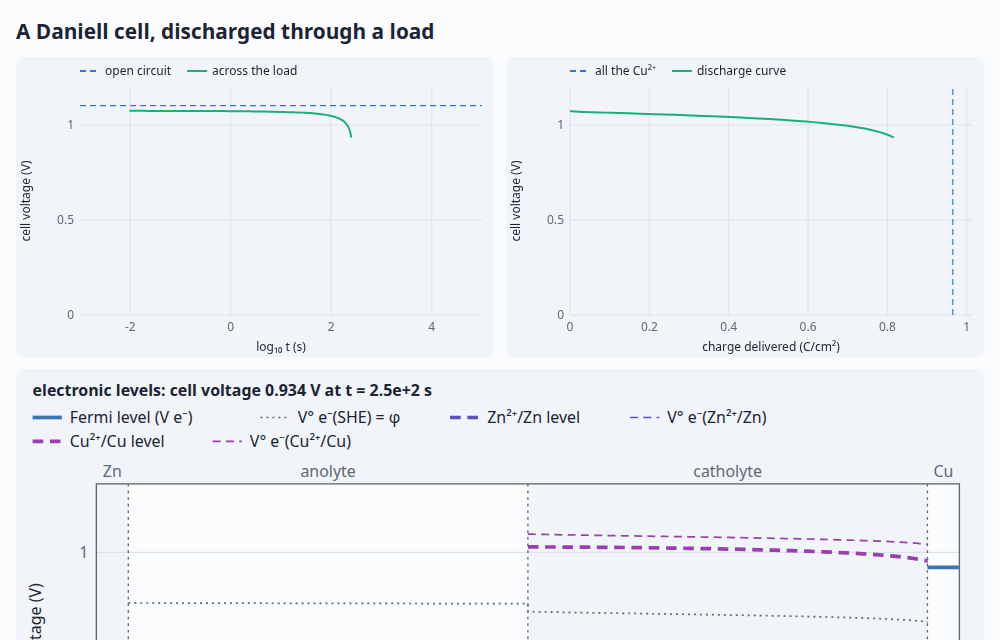
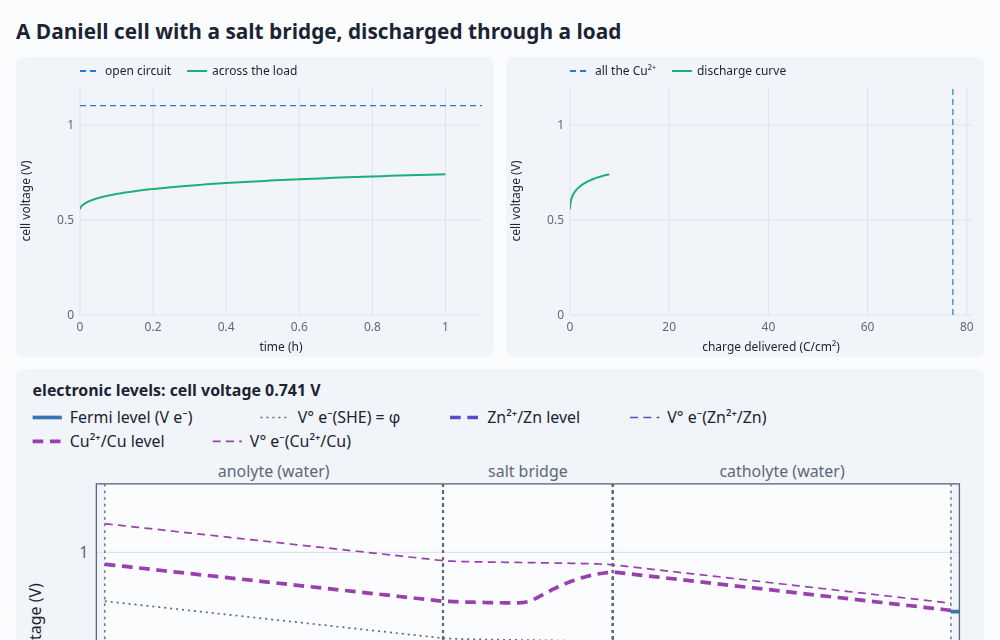
Daniell demo: a salt bridge simulated ion by ion, leaking, in linear time
A 3 M KCl bridge between stirred solutions (eddy mixing), every ion everywhere so each crosses
each junction. The zinc-side junction drawn ion by ion: tens of mV in each species' voltage,
about a millivolt in φ (Henderson's 0.99 mV). Playback in cell-hours per second; the cell runs
until its Cu²⁺ is gone.

diff --git a/demos/daniell.html b/demos/daniell.html
@@ -8,30 +8,30 @@
 </head>
 <body>
 <main>
-  <h1>A Daniell cell, discharged through a load</h1>
-  <p>Zn | 0.1 M ZnSO₄ | separator | 0.1 M CuSO₄ | Cu, each solution 0.5 mm deep and still, the separator
-    passing only sulfate. At open circuit each metal's Fermi level sits at its couple's redox level (Zn²⁺/Zn
-    and Cu²⁺/Cu), and the cell voltage is the 1.10 V between them. Connect a load and current flows: each
-    metal departs from its couple's level by an overpotential, the redox levels tilt across the electrolyte
-    (ohmic drop, and the compositions changing near each electrode), and the voltage left for the load
-    shrinks. Zinc dissolves, copper plates, and sulfate crosses the separator to keep each side neutral. The
-    run goes on, in log time, until the cell is flat: 0.5 mm of 0.1 M Cu²⁺ holds 0.96 C/cm², or 1.06 J/cm² at
-    1.10 V. A light load drains it slowly, near the open-circuit voltage throughout, and gets 97% of that
-    energy (the rest because the couples' levels close in as Cu²⁺ runs low and Zn²⁺ builds up). The heaviest
-    load here asks for more current than diffusion can supply: the Cu²⁺ at the copper runs out early and the
-    voltage sags, so although nearly all the charge still comes out, less than a fifth of the energy reaches
-    the load. The rest is dissipated in the cell.</p>
-  <p>The first level diagram is electronic: the metals' Fermi levels, each couple's redox level, the electronic
-    level at which the local mixture is in equilibrium, and their standard levels, which ride on the SHE's
-    standard level (φ itself, with table μ°): zinc's 0.76 V below it, copper's 0.34 V above. The second is
-    the same story ion by ion: each species' voltage V<sub>i</sub> (thick) and standard level V°<sub>i</sub>
-    (thin), with sulfate drawn 4.1 V lower (⌇) to share the plot. Zn²⁺'s voltage meets zinc's electrons,
-    and Cu²⁺'s meets copper's: that's what equilibrium at each electrode means.</p>
+  <h1>A Daniell cell with a salt bridge, discharged through a load</h1>
+  <p>Zn | 0.1 M ZnSO₄ | 3 M KCl salt bridge | 0.1 M CuSO₄ | Cu, built in a tube: the two solutions are each
+    4 cm long and stirred, the bridge 2 cm of unstirred KCl, and everything per unit area of the tube's bore.
+    (A real cell has beakers far bigger than its bridge's bore, so its solutions change more slowly; 1D can't
+    hold that geometry.) At open circuit each metal's Fermi level sits at its couple's redox level, 1.10 V
+    apart. Connect the load and current flows: each metal departs from its couple's level by an overpotential,
+    the solutions and bridge drop some of the voltage, and the rest reaches the load. Zinc dissolves, copper
+    plates, and the cell runs until the Cu²⁺ is gone.</p>
+  <p>The bridge is where a textbook says "assume the liquid junction potentials are negligible". Here it's
+    simulated, ions and all. Every ion crosses each junction, so the bridge leaks: KCl diffuses out into the
+    two solutions, and Zn²⁺, Cu²⁺ and SO₄²⁻ diffuse in, on the way to the far side. The zoomed diagram follows
+    the zinc-side junction ion by ion: each species' voltage V<sub>i</sub> changes by tens of mV across it,
+    and those differences drive the leak, yet at open circuit φ steps by only about a millivolt (under load,
+    φ also falls with the current's ohmic drop). That small step is the liquid junction potential: it
+    starts at +0.97 mV, against +0.99 mV from Henderson's formula for these solutions, and the copper side's
+    is −0.97 mV, nearly cancelling. That's why a KCl bridge works: K⁺ and Cl⁻ move at nearly the same speed. Over hours
+    the leaked KCl also makes the solutions more conductive, so under a heavy load the voltage rises at first.
+    Each end of the bridge starts as a thin zone where the solutions are pre-mixed, as at a frit (a perfectly
+    sharp start is harder for the solver, and no real junction is sharp).</p>
   <div class="controls">
-    <label>load R <input id="R" type="range" min="-3" max="1" step="0.25" value="-1.5"><output id="Rout"></output></label>
+    <label>load R <input id="R" type="range" min="-3" max="0" step="0.25" value="-1.5"><output id="Rout"></output></label>
     <label>playback <select id="pace">
-      <option value="3">a decade of time every 3 s</option>
-      <option value="1" selected>a decade every second</option>
+      <option value="0.1667">10 min of cell time a second</option>
+      <option value="1" selected>an hour a second</option>
       <option value="0">as fast as it solves</option>
     </select></label>
     <button id="run">restart</button>
@@ -42,46 +42,64 @@
     <canvas id="vq"></canvas>
     <div class="levels wide" id="levels"></div>
     <div class="levels wide" id="conc"></div>
-    <div class="levels wide" id="ions"></div>
+    <div class="levels wide" id="junction"></div>
     <div class="readout wide" id="ledger"></div>
   </div>
 </main>
 <script type="module">
-import { Device, FARADAY } from '../src/index.js';
-import { build, layer, ohmic, half, level, aqueous, metal } from '../src/kit.js';
+import { Device, FARADAY, GAS_CONSTANT } from '../src/index.js';
+import { build, layer, ohmic, half, level, aqueous, metal, traces, IONS } from '../src/kit.js';
+import { levelChart } from '../src/plot.js';
 import { chart, colors } from './plot.js';
 import { levels, profiles, showCode, fromQuery } from './common.js';
 
 const zinc = half('Zn2+ + 2 e- = Zn(s)', { 'Zn(s)': 0 });
 const copper = half('Cu2+ + 2 e- = Cu(s)', { 'Cu(s)': 0 });
 const electrode = (couple) => ({ reactions: [{ ...couple, k0: 1e-3, alpha: 0.5 }] });
-const depth = 500e-6, c0 = 100; // each solution: m, mol/m³
+
+// Every ion is everywhere (a trace of 1 µM where it isn't added), so each can cross each junction.
+const ions = ['Zn2+', 'Cu2+', 'K+', 'SO42-', 'Cl-'], trace = 1e-3; // mol/m³
+const anolyte = { 'Zn2+': 100, 'SO42-': 100, 'Cu2+': trace, 'K+': trace, 'Cl-': 3 * trace };
+const catholyte = { 'Cu2+': 100, 'SO42-': 100, 'Zn2+': trace, 'K+': trace, 'Cl-': 3 * trace };
+const bridge = { 'K+': 3000, 'Cl-': 3000 + 2 * trace, 'Zn2+': trace, 'Cu2+': trace, 'SO42-': trace };
+const arm = 0.04, span = 0.02; // m: each solution, and the bridge
+
+// Each end of the bridge starts as a 0.1 mm zone where the two solutions are pre-mixed, as at a
+// frit: layers mixing one into the other in log-spaced fractions (neutral, since it's linear).
+const fractions = [1e-6, 1e-5, 1e-4, 1e-3, 1e-2, 0.1, 0.5, 0.9, 0.99, 0.999, 0.9999, 0.99999, 0.999999];
+const mix = (a, b, s) => Object.fromEntries(ions.map((n) => [n, (1 - s) * a[n] + s * b[n]]));
+const frit = (a, b) => fractions.map((s) => layer('water', 1e-4 / fractions.length, { name: 'frit', c0: mix(a, b, s) }));
+// A stirred solution: eddy mixing evens it out within seconds (it carries no current), on a grid
+// as coarse as a uniform solution allows.
+const stirred = (name, c0) => layer('water', arm, { name, c0, mixing: 1e-4, grid: { hmin: arm / 100, hmax: arm / 20 } });
+
 const cell = (right) =>
   build({
-    library: [
-      aqueous(['Zn2+', 'SO42-'], { epsr: 0, material: 'anolyte' }), // strictly neutral solutions
-      aqueous(['Cu2+', 'SO42-'], { epsr: 0, material: 'catholyte' }),
-      metal('Zn'),
-      metal('Cu'),
-    ],
+    library: [aqueous(ions, { epsr: 0 }), metal('Zn'), metal('Cu')], // strictly neutral solutions
     stack: [
       ohmic(0, ['e-']),
-      layer('Zn', 40e-6), // a metal is one cell whatever its length: this just shows on the diagram
+      layer('Zn', 1e-3), // a metal is one cell whatever its length: this just shows on the diagram
       electrode(zinc),
-      layer('anolyte', depth, { c0: { 'Zn2+': c0, 'SO42-': c0 } }),
-      {}, // the separator: only sulfate is in both solutions, so only sulfate crosses
-      layer('catholyte', depth, { c0: { 'Cu2+': c0, 'SO42-': c0 } }),
+      stirred('anolyte', anolyte),
+      frit(anolyte, bridge),
+      layer('water', span, { name: 'salt bridge', c0: bridge }),
+      frit(bridge, catholyte),
+      stirred('catholyte', catholyte),
       electrode(copper),
-      layer('Cu', 40e-6),
+      layer('Cu', 1e-3),
       ohmic(right, ['e-']),
     ],
-    grid: { hmin: 10e-9, hmax: 10e-6 },
+    grid: { hmin: 1e-6, hmax: span / 100 },
   });
-const capacity = 2 * FARADAY * c0 * depth; // C/m²: all the Cu²⁺ plated
+const capacity = 2 * FARADAY * catholyte['Cu2+'] * arm; // C/m²: all the Cu²⁺ plated
+// The open-circuit voltage at the start: the two couples' levels, equal concentrations.
+const emf0 = (IONS['Cu2+'].mu0 - IONS['Zn2+'].mu0) / (2 * FARADAY);
 
-// The faces' edge nodes, where the overpotentials are read.
-const probe = new Device(cell({ I: 0 }));
-const gZn = probe.grid.regionStart[1], gCu = probe.grid.regionEnd[2];
+// The faces' edge nodes, where the overpotentials are read, and the zinc-side junction.
+const probe = new Device(cell(emf0));
+const region = (name) => probe.model.regions.findIndex((r) => r.name === name);
+const gZn = probe.grid.regionStart[region('anolyte')], gCu = probe.grid.regionEnd[region('catholyte')];
+const xJunction = probe.grid.x[probe.grid.regionEnd[region('anolyte')]];
 const ledger = (sol) => {
   const Vzn = sol.V['e-'][0], Vcu = sol.V['e-'].at(-1);
   const Lzn = level(sol, zinc)[gZn], Lcu = level(sol, copper)[gCu];
@@ -90,71 +108,83 @@ const ledger = (sol) => {
   return { V: Vcu - Vzn, etaZn: Lzn - Vzn, etaCu: Vcu - Lcu, couples: Lcu - Lzn };
 };
 
-const Rslider = document.getElementById('R');
+const Rslider = document.getElementById('R'), pace = document.getElementById('pace');
 fromQuery(Rslider);
+fromQuery(pace);
 const R = () => 10 ** +Rslider.value; // Ω·m²
-const show = () => (document.getElementById('Rout').textContent = `${(R() * 1e4).toPrecision(2)} Ω·cm²`);
+const show = () => (document.getElementById('Rout').textContent = `${+(R() * 1e4).toPrecision(2)} Ω·cm²`);
 Rslider.addEventListener('input', show);
 show();
 
-let dev, emf, trace, running = false;
+let dev, run, running = false;
 function start() {
-  // At open circuit (the right terminal floating at zero current), then the load.
-  dev = new Device(cell({ I: 0 }));
-  emf = ledger(dev.solve()).V;
-  dev.set({ contacts: { right: { I: undefined, V: 0, R: R() } } }); // the load: I = (0 − V)/R
-  // ?t=… goes straight to that time (for a screenshot).
-  trace = { t: [], V: [], q: [0], energy: 0, stop: +new URLSearchParams(location.search).get('t') || Infinity };
+  // The copper held at the open-circuit voltage for a microsecond while the junctions form, then
+  // the load: I = (0 − V)/R.
+  dev = new Device(cell(emf0));
+  dev.advance(1e-6);
+  dev.set({ contacts: { right: { V: 0, R: R() } } });
+  run = { t: [], V: [], q: [0], energy: 0, I: 0, stop: +new URLSearchParams(location.search).get('t') || Infinity };
+  // ?t=… runs ahead to that time (for sharing a state, or a screenshot).
+  if (run.stop < Infinity) record(dev.advance(run.stop, { budgetMs: 60000 }));
   lastFrame = undefined;
   if (!running) requestAnimationFrame(frame);
   running = true;
 }
 
-// Playback in log time, from 1 ms: a decade of time every few seconds, or as far as 12 ms of
-// computing reaches each frame. The run ends when the cell is flat.
-const pace = document.getElementById('pace');
+// Charge and energy through the load, by the trapezoid rule.
+function record(sol) {
+  sol.trace.t.forEach((t, k) => {
+    const I = sol.trace.current[k], V = sol.trace.voltage[k]; // through the load, and across it
+    if (run.t.length) {
+      const dt = t - run.t.at(-1);
+      run.q.push(run.q.at(-1) + (dt * (run.I + I)) / 2);
+      run.energy += (dt * (run.I * run.V.at(-1) + I * V)) / 2;
+    }
+    run.I = I;
+    run.t.push(t);
+    run.V.push(V);
+  });
+  return sol;
+}
+
+// Playback in cell-hours per wall-clock second, or as far as 12 ms of computing reaches.
 let lastFrame;
 function frame(now = performance.now()) {
   const wall = Math.min(0.1, (now - (lastFrame ?? now)) / 1000);
   lastFrame = now;
-  const perDecade = +pace.value, t = Math.max(1e-3, dev.solver.time);
-  const target = trace.stop < Infinity ? trace.stop : perDecade > 0 ? t * 10 ** (wall / perDecade) : t * 100;
-  const sol = dev.advance(target, { budgetMs: 12 });
-  sol.trace.t.forEach((t, k) => {
-    // Charge and energy through the load, by the trapezoid rule.
-    const I = sol.trace.current[k], V = sol.trace.voltage[k]; // through the load, and across it
-    if (trace.t.length) {
-      const dt = t - trace.t.at(-1);
-      trace.q.push(trace.q.at(-1) + (dt * (trace.I + I)) / 2);
-      trace.energy += (dt * (trace.I * trace.V.at(-1) + I * V)) / 2;
-    }
-    trace.I = I;
-    trace.t.push(t);
-    trace.V.push(sol.trace.voltage[k]);
-  });
-  const L = ledger(sol), flat = trace.t.length > 1 && L.V < 0.01 * emf;
-  const q = trace.q.at(-1) / 1e4; // C/cm²
+  const hoursPerSecond = +pace.value, t = dev.solver.time;
+  const target = run.stop < Infinity ? t : hoursPerSecond > 0 ? t + wall * hoursPerSecond * 3600 : t + 86400;
+  const sol = record(dev.advance(target, { budgetMs: 12 }));
+  const flat = run.q.at(-1) > 0.999 * capacity || (run.t.length > 1 && run.V.at(-1) < 1e-3);
+  draw(sol, flat);
+  if (run.stop === Infinity && sol.converged && !flat) requestAnimationFrame(frame);
+  else running = false;
+}
+
+function draw(sol, flat) {
+  const L = ledger(sol), hours = sol.time / 3600;
   document.getElementById('status').textContent =
-    `t = ${sol.time < 100 ? sol.time.toPrecision(2) : sol.time.toFixed(0)} s · I = ${(sol.current / 10).toFixed(2)} mA/cm² · delivered ${q.toFixed(3)} C/cm², ${(trace.energy / 1e4).toFixed(3)} J/cm²` +
-    (flat ? ` · flat: the load got ${((100 * trace.energy) / (capacity * emf)).toFixed(0)}% of the energy` : '');
+    `${hours < 10 ? hours.toFixed(2) : hours.toFixed(1)} h · I = ${(sol.current / 10).toFixed(3)} mA/cm² · ` +
+    `delivered ${(run.q.at(-1) / 1e4).toFixed(2)} C/cm², ${(run.energy / 1e4).toFixed(2)} J/cm²` + (flat ? ' · flat' : '');
+  const tMax = Math.max(1, 1.1 * hours);
   chart(document.getElementById('vt'), {
-    xlabel: 'log₁₀ t (s)', ylabel: 'cell voltage (V)', xlim: [-3, 5], ylim: [0, 1.2],
+    xlabel: 'time (h)', ylabel: 'cell voltage (V)', xlim: [0, tMax], ylim: [0, 1.2],
     series: [
-      { x: [-3, 5], y: [emf, emf], color: colors[0], dash: [6, 4], width: 1.2, label: 'open circuit' },
-      { x: trace.t.map(Math.log10), y: trace.V, color: colors[2], label: 'across the load' },
+      { x: [0, tMax], y: [emf0, emf0], color: colors[0], dash: [6, 4], width: 1.2, label: 'open circuit' },
+      { x: run.t.map((t) => t / 3600), y: run.V, color: colors[2], label: 'across the load' },
     ],
   });
   chart(document.getElementById('vq'), {
-    xlabel: 'charge delivered (C/cm²)', ylabel: 'cell voltage (V)', xlim: [0, 1.05 * capacity / 1e4], ylim: [0, 1.2],
+    xlabel: 'charge delivered (C/cm²)', ylabel: 'cell voltage (V)', xlim: [0, (1.05 * capacity) / 1e4], ylim: [0, 1.2],
     series: [
       { x: [capacity / 1e4, capacity / 1e4], y: [0, 1.2], color: colors[0], dash: [6, 4], width: 1.2, label: 'all the Cu²⁺' },
-      { x: trace.q.map((v) => v / 1e4), y: trace.V, color: colors[2], label: 'discharge curve' },
+      { x: run.q.map((v) => v / 1e4), y: run.V, color: colors[2], label: 'discharge curve' },
     ],
   });
   // Electronic levels: the Fermi levels, each couple's redox level and standard level, and the
   // SHE's standard level, which with table μ° (μ°_H⁺ = 0, μ_H₂ = 0) is φ itself.
   levels(document.getElementById('levels'), sol, {
-    title: `electronic levels: cell voltage ${L.V.toFixed(3)} V at t = ${sol.time.toPrecision(2)} s`,
+    title: `electronic levels: cell voltage ${L.V.toFixed(3)} V`,
     species: ['e-'],
     phi: true,
     labels: { 'V:e-': 'Fermi level (V e⁻)', phi: 'V° e⁻(SHE) = φ' },
@@ -167,32 +197,38 @@ function frame(now = performance.now()) {
     range: [-0.2, 1.3],
     ylabel: 'electron voltage (V)',
   });
-  // Sulfate (thin) follows each side's cation exactly: the solutions are strictly neutral.
   profiles(document.getElementById('conc'), sol, {
-    species: ['Zn2+', 'Cu2+', { name: 'SO42-', kind: 'standard', label: 'c SO₄²⁻ (= the cation’s)' }],
-    title: 'concentrations', ylabel: 'concentration (mM)', range: [0, 230],
+    species: ['K+', 'Cl-', 'Zn2+', 'Cu2+', 'SO42-'],
+    title: 'concentrations: the bridge leaking', ylabel: 'concentration (M)', scale: 1e-3, log: true, range: [-6, 1],
   });
-  levels(document.getElementById('ions'), sol, {
-    title: 'species voltages and standard levels, ion by ion',
-    species: ['e-', 'Zn2+', 'Cu2+', 'SO42-'],
-    shifts: { 'SO42-': -4.1 },
-    range: [-0.2, 1.3],
-    ylabel: 'voltage (V)',
+  // The zinc-side junction, ion by ion: each species' voltage relative to its value in the
+  // stirred anolyte (mV), and φ likewise. The window widens as the junction spreads (√(Dt)).
+  const w = Math.min(span, Math.max(5e-4, 4 * Math.sqrt(2e-9 * sol.time)));
+  const xlim = [xJunction - w / 4, xJunction + w];
+  const tr = traces(sol, { species: ['K+', 'Cl-', 'Zn2+', 'SO42-'], standard: false, phi: true });
+  const g0 = sol.x.findIndex((x) => x >= xlim[0]);
+  for (const line of tr.series) {
+    const ref = line.y[g0];
+    line.y = line.y.map((v) => 1000 * (v - ref));
+    line.label = line.id === 'phi' ? 'φ' : `${line.label} (from its value in the anolyte)`;
+  }
+  const iJ = sol.x.findIndex((x) => x >= xJunction + w * 0.9);
+  document.getElementById('junction').innerHTML = levelChart(tr, {
+    width: 720, height: 360, xlim, ylabel: 'change from the anolyte (mV)',
+    title: `the zinc-side junction: φ changes by ${(1000 * (sol.phi[iJ] - sol.phi[g0])).toFixed(2)} mV across this window, ohmic drop included`,
   });
   // Where the voltage goes: exact, as differences of levels at the two faces.
   const row = (name, v, strong) => `<tr${strong ? ' style="font-weight:600"' : ''}><td>${name}</td><td style="text-align:right;white-space:nowrap;padding-left:12px">${v >= 0 ? '+' : '−'}${Math.abs(v).toFixed(3)} V</td></tr>`;
   document.getElementById('ledger').innerHTML =
     `<table style="width:100%;max-width:460px">` +
-    row('open-circuit voltage (the two couples, at the start)', emf, true) +
-    row('electrolyte: ohmic drop and concentration changes', L.couples - emf) +
+    row('open-circuit voltage (the two couples, at the start)', emf0, true) +
+    row('electrolyte: solutions, bridge and junctions, and concentration changes', L.couples - emf0) +
     row('zinc overpotential', L.etaZn) +
     row('copper overpotential', L.etaCu) +
     row('cell voltage', L.V, true) +
     `</table><p class="note">The overpotentials are each metal's distance from its couple's level at its own face;
     the electrolyte's share is what's left between the two couples' levels there. How that share splits into
     ohmic drop, concentration and junction terms is a convention; the diagrams show where it happens.</p>`;
-  if (sol.time < trace.stop && sol.converged && !flat) requestAnimationFrame(frame);
-  else running = false;
 }
 document.getElementById('run').addEventListener('click', start);
 Rslider.addEventListener('change', start);

diff --git a/demos/index.html b/demos/index.html
@@ -25,7 +25,7 @@
   <h2>Electrochemistry</h2>
   <div class="cards">
     <a class="card" href="redox.html"><img src="screenshots/redox.png" alt="cyclic voltammetry"><div><b>Cyclic voltammetry</b><span>Fe³⁺/Fe²⁺ at platinum: the Fermi level against the couple's redox level, Butler–Volmer kinetics and diffusion.</span></div></a>
-    <a class="card" href="daniell.html"><img src="screenshots/daniell.png" alt="Daniell cell"><div><b>Daniell cell</b><span>Zn | Zn²⁺ ‖ Cu²⁺ | Cu run flat through a load: where its voltage, and its energy, go.</span></div></a>
+    <a class="card" href="daniell.html"><img src="screenshots/daniell.png" alt="Daniell cell"><div><b>Daniell cell</b><span>Zn | Zn²⁺ | KCl bridge | Cu²⁺ | Cu through a load: the bridge simulated ion by ion, leaking, with its junction potentials.</span></div></a>
     <a class="card" href="cell.html"><img src="screenshots/cell.png" alt="concentration polarisation"><div><b>Concentration polarisation</b><span>Ag | AgNO₃ | Ag under a square wave: the salt piling up and reversing, live; the impedance against theory.</span></div></a>
   </div>
 

diff --git a/README.md b/README.md
@@ -127,7 +127,7 @@ and open `/demos/`.
 | [![pn junction](demos/screenshots/pn.png)](demos/pn.html) | [![solar cell](demos/screenshots/solar.png)](demos/solar.html) | [![MOS capacitor](demos/screenshots/mos.png)](demos/mos.html) |
 | **pn junction**: quasi-Fermi levels under bias; I–V against Shockley | **Solar cell**: J<sub>sc</sub> and V<sub>oc</sub> against collection theory | **MOS capacitor**: band bending; C–V against ideal theory |
 | [![cyclic voltammetry](demos/screenshots/redox.png)](demos/redox.html) | [![Daniell cell](demos/screenshots/daniell.png)](demos/daniell.html) | [![concentration polarisation](demos/screenshots/cell.png)](demos/cell.html) |
-| **Cyclic voltammetry**: a Fermi level against a redox level | **Daniell cell**: run flat, and where its voltage and energy go | **Ag \| AgNO₃ \| Ag**: square-wave polarisation and impedance |
+| **Cyclic voltammetry**: a Fermi level against a redox level | **Daniell cell**: a real salt bridge, leaking, ion by ion | **Ag \| AgNO₃ \| Ag**: square-wave polarisation and impedance |
 | [![ion-exchange membrane](demos/screenshots/membrane.png)](demos/membrane.html) | [![double layer](demos/screenshots/double-layer.png)](demos/double-layer.html) | [![insertion host](demos/screenshots/insertion.png)](demos/insertion.html) |
 | **Ion-exchange membrane**: Donnan steps, ion by ion, against TMS theory | **Double layer**: dilute vs crowded ions, against closed forms | **Intercalation host**: cycling between cutoffs against the OCV |
 
